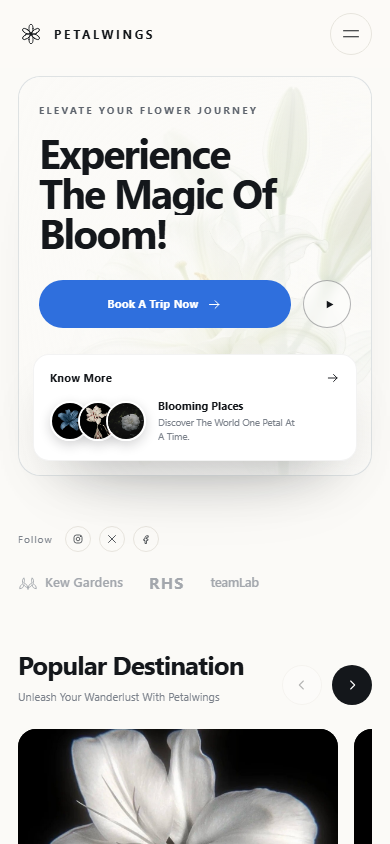
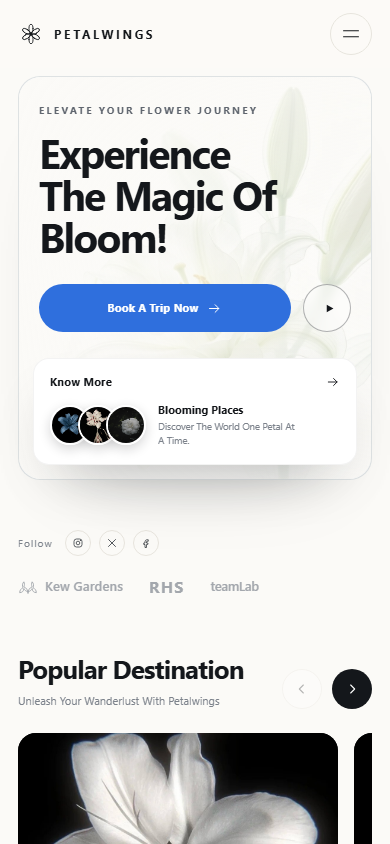
fix(hero): 标题 g/y 下伸部被逐行动画的裁切盒切掉
- .hero__title .line 的 overflow:hidden 裁切盒比字形高度小，Magic 的 g 尾巴被切
- 改为 padding + 等量负 margin 放大裁切区域，行距保持不变
- 上升动画位移同步调到 122%，起始帧不会露出半截
- 10 个视口宽度下校验无文字裁切；standalone 单文件版同步重建

diff --git a/css/style.css b/css/style.css
@@ -767,10 +767,13 @@ body.menu-open .menu-toggle__bar:last-child {
   color: var(--ink);
 }
 
+/* 每一行都套一个 overflow:hidden 的盒子做“上升”动画。
+   注意：裁切盒必须比行高更大，否则 g / y / p 这些字母的下伸部会被切掉。
+   做法是加 padding 再配等量负 margin —— 视觉行距不变，但可裁切区域变大。 */
 .hero__title .line {
   display: block;
-  margin-bottom: -0.06em;
-  padding-bottom: 0.06em;
+  margin: -0.05em 0 -0.18em;
+  padding: 0.05em 0 0.18em;
   overflow: hidden;
 }
 
@@ -1508,7 +1511,7 @@ body.menu-open .menu-toggle__bar:last-child {
 /* 英雄区入场：标题逐行上升，其他元素随后淡入 */
 .js .hero__title .line__inner {
   display: block;
-  transform: translateY(112%);
+  transform: translateY(122%);
   animation: hero-rise 1.1s var(--ease-out) forwards;
 }
 

diff --git a/README.md b/README.md
@@ -49,6 +49,7 @@ npm run shots     # 用本机 Edge/Chrome + CDP 出 5 张页面截图 + 3 张交
 - **轮播卡片宽度计算**：`--card-gap` 参与 `calc((100% - gap*2)/3)`，改间距不用改 JS。
 - **横向拖拽**：Pointer Events + 6px 阈值 + `setPointerCapture` + 拖拽时临时关闭 scroll-snap + 松手吞 click，见 `js/main.js` 第 5 段。
 - **移动端布局视口被撑宽**：hero 在桌面上是 flex 横排，窄屏必须 `display:block`；Know More 卡 static 时要补 `z-index` 否则被绝对定位的图片盖住。
+- **Hero 标题逐行动画的裁切盒**：`.line` 的 `overflow:hidden` 会切掉 g / y / p 的下伸部，用 `padding` + 等量负 `margin` 放大裁切区域且保持行距不变（`css/style.css` 的 `.hero__title .line`）。
 - **灯箱**：焦点陷阱、ESC / 方向键、滚动锁、相邻图预加载、关闭后焦点还原。
 - **降级**：`prefers-reduced-motion`、无 JS、`?no-anim=1`（截图用）、`?shot=1`（懒加载改 eager）。
 
